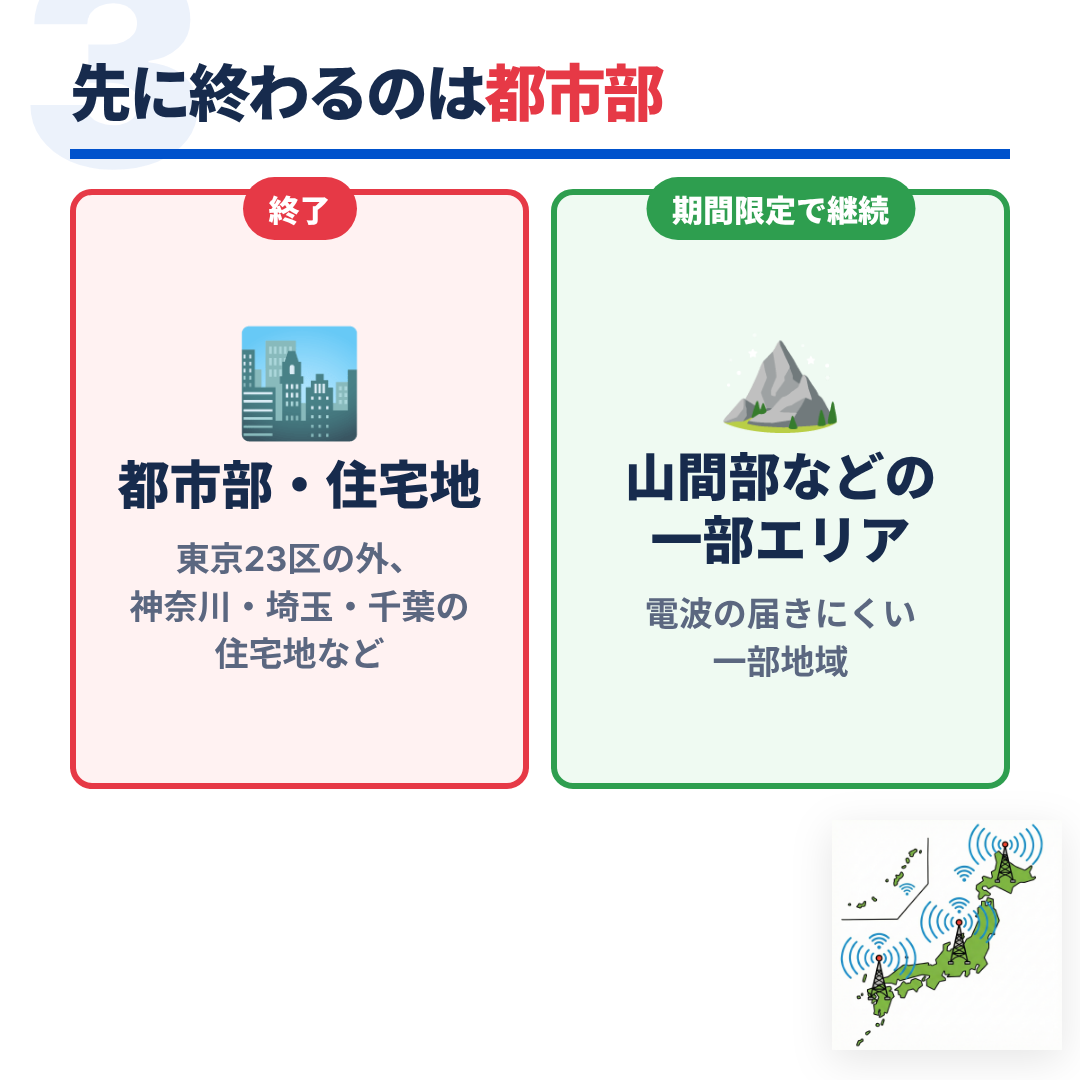
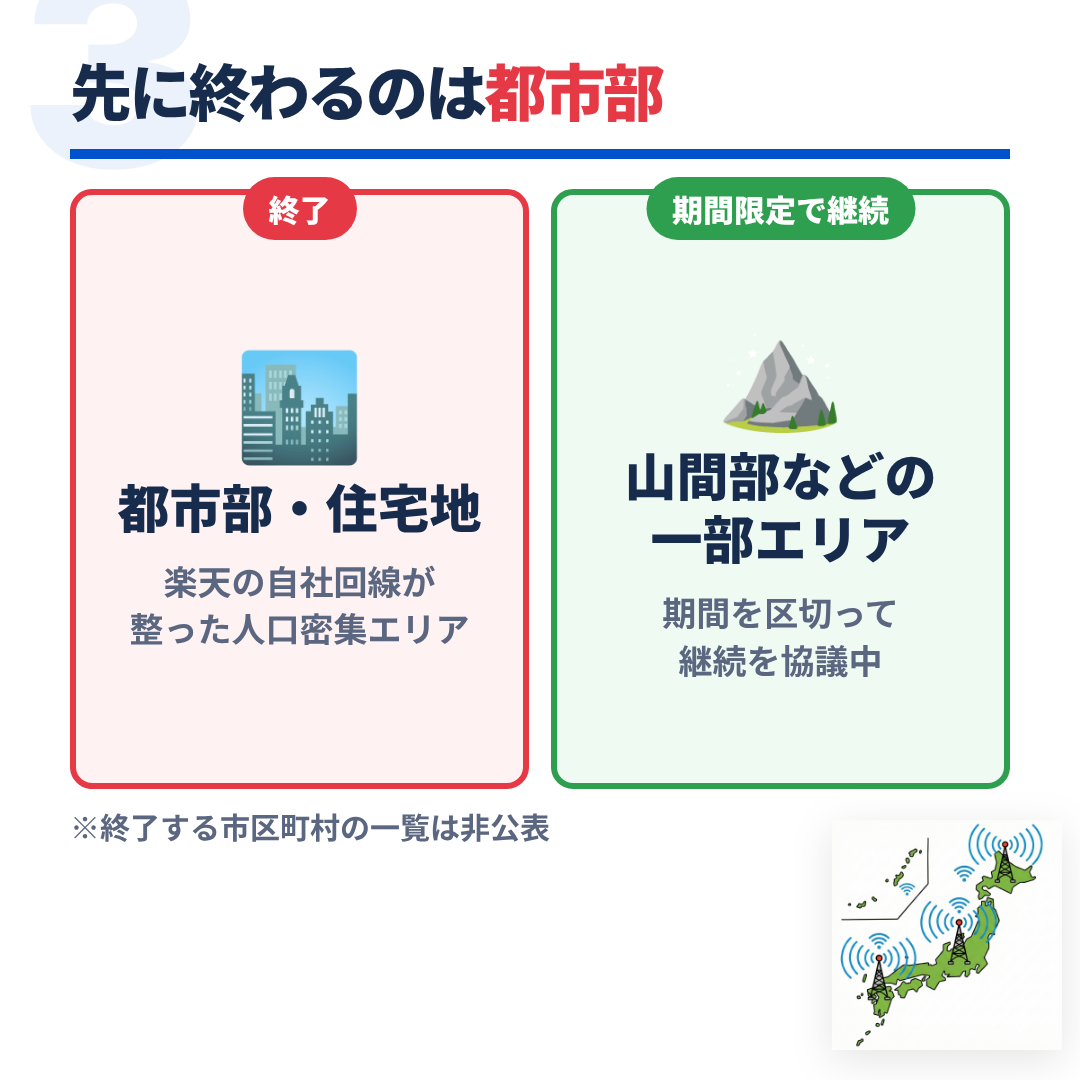
スライド修正

Changed region(s): [[0.0917, 0.275, 0.4583, 0.6417], [0.0611, 0.7333, 0.5194, 0.7944], [0.5806, 0.55, 0.8556, 0.6417]]

diff --git a/slides-short.html b/slides-short.html
@@ -488,6 +488,13 @@
         font-size: 34px;
         line-height: 1.4;
       }
+      .area-note {
+        width: 62%;
+        color: var(--ink-soft);
+        font-size: 30px;
+        font-weight: 700;
+        line-height: 1.3;
+      }
       .map-illust {
         right: 18px;
         bottom: 30px;
@@ -741,15 +748,15 @@
         white-space: nowrap;
       }
       .cta-banner-img {
-        width: 800px;
-        max-height: 448px;
+        width: 940px;
+        max-height: 540px;
         border: 7px solid #fff;
         border-radius: 18px;
         box-shadow: 0 18px 42px rgba(0, 0, 0, 0.4);
         filter: none;
       }
       .cta-arrow {
-        margin-top: 3px;
+        margin-top: 10px;
         color: #ffd700;
         font-size: 74px;
         font-weight: 900;
@@ -832,7 +839,7 @@
       </div>
     </div>
     <!-- Slide ID: 3 -->
-    <!-- CSV表示内容: 終了エリアのイメージ図／終了：都市部・住宅地（東京23区の外、神奈川・埼玉・千葉の住宅地など）／期間限定で継続：山間部などの一部エリア -->
+    <!-- CSV表示内容: 終了エリアのイメージ図／終了：都市部・住宅地（楽天の自社回線が整った人口密集エリア）／期間限定で継続：山間部などの一部エリア -->
     <div class="slide-container area-slide" data-slide-id="3">
       <div class="watermark">3</div>
       <h2 class="slide-title">先に終わるのは<em>都市部</em></h2>
@@ -842,15 +849,16 @@
             <span class="area-label">終了</span>
             <div class="area-icon">🏙</div>
             <h3>都市部・住宅地</h3>
-            <p>東京23区の外、<br />神奈川・埼玉・千葉の<br />住宅地など</p>
+            <p>楽天の自社回線が<br />整った人口密集エリア</p>
           </section>
           <section class="area-card keep-card">
             <span class="area-label">期間限定で継続</span>
             <div class="area-icon">⛰</div>
             <h3>山間部などの<br />一部エリア</h3>
-            <p>電波の届きにくい<br />一部地域</p>
+            <p>期間を区切って<br />継続を協議中</p>
           </section>
         </div>
+        <p class="area-note">※終了する市区町村の一覧は非公表</p>
       </div>
       <div class="slide-illust map-illust" style="z-index: 2">
         <img
